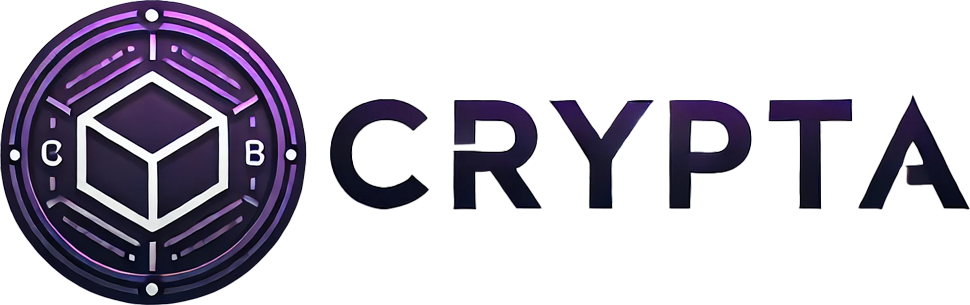
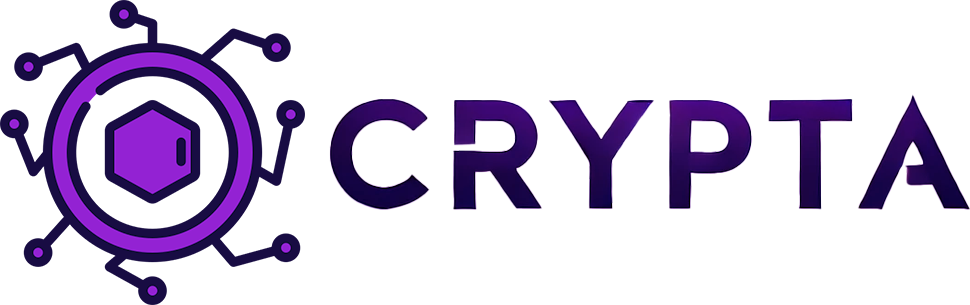
changement affichage

diff --git a/resources/views/utilisateur/accueil.blade.php b/resources/views/utilisateur/accueil.blade.php
@@ -3,6 +3,7 @@
 <head>
     <meta charset="UTF-8">
     <meta name="viewport" content="width=device-width, initial-scale=1.0">
+    <link rel="shortcut icon" href="{{asset('images/mini-Crypta.png')}}">
     <title>Crypta - Investissez intelligemment</title>
     <link rel="stylesheet" href="{{ asset('bootstrap-5/css/bootstrap.min.css') }}">
     <style>
@@ -14,7 +15,7 @@
 
         /* Navigation bar */
         .navbar {
-            background-color: #4a4eb1;
+            background-color: #657be9;
             color: #fff;
         }
 
@@ -152,7 +153,7 @@
 <!-- Navigation Bar -->
 <nav class="navbar navbar-expand-lg">
     <div class="container">
-        <a class="navbar-brand" href="#">Crypta</a>
+        <a class="navbar-brand" href="#"><img src="{{asset('images/Crypta.png')}}" style="width: 10%"></a>
         <button class="navbar-toggler" type="button" data-bs-toggle="collapse" data-bs-target="#navbarNav" aria-controls="navbarNav" aria-expanded="false" aria-label="Toggle navigation">
             <span class="navbar-toggler-icon"></span>
         </button>

diff --git a/resources/views/utilisateur/login.blade.php b/resources/views/utilisateur/login.blade.php
@@ -5,6 +5,7 @@
     <meta name="viewport" content="width=device-width, initial-scale=1.0">
     <title>Crypta - Login</title>
     <link href="{{ asset('bootstrap-5/css/bootstrap.min.css') }}" rel="stylesheet">
+    <link rel="shortcut icon" href="{{asset('images/mini-Crypta.png')}}">
     <style>
         body {
             background: linear-gradient(135deg, #4a4eb1, #667eea);

diff --git a/resources/views/utilisateur/parametre.blade.php b/resources/views/utilisateur/parametre.blade.php
@@ -5,6 +5,7 @@
     <meta name="viewport" content="width=device-width, initial-scale=1.0">
     <title>Crypta - Login</title>
     <link rel="stylesheet" href="{{ asset('bootstrap-5/css/bootstrap.min.css') }}">
+    <link rel="shortcut icon" href="{{asset('images/mini-Crypta.png')}}">
     <style>
         body {
             background: linear-gradient(135deg, #4a4eb1, #667eea);

diff --git a/resources/views/utilisateur/pin.blade.php b/resources/views/utilisateur/pin.blade.php
@@ -5,6 +5,7 @@
     <meta name="viewport" content="width=device-width, initial-scale=1.0">
     <title>Crypta - Login</title>
     <link href="{{ asset('bootstrap-5/css/bootstrap.min.css') }}" rel="stylesheet">
+    <link rel="shortcut icon" href="{{asset('images/mini-Crypta.png')}}">
     <style>
         body {
             background: linear-gradient(135deg, #4a4eb1, #667eea);
